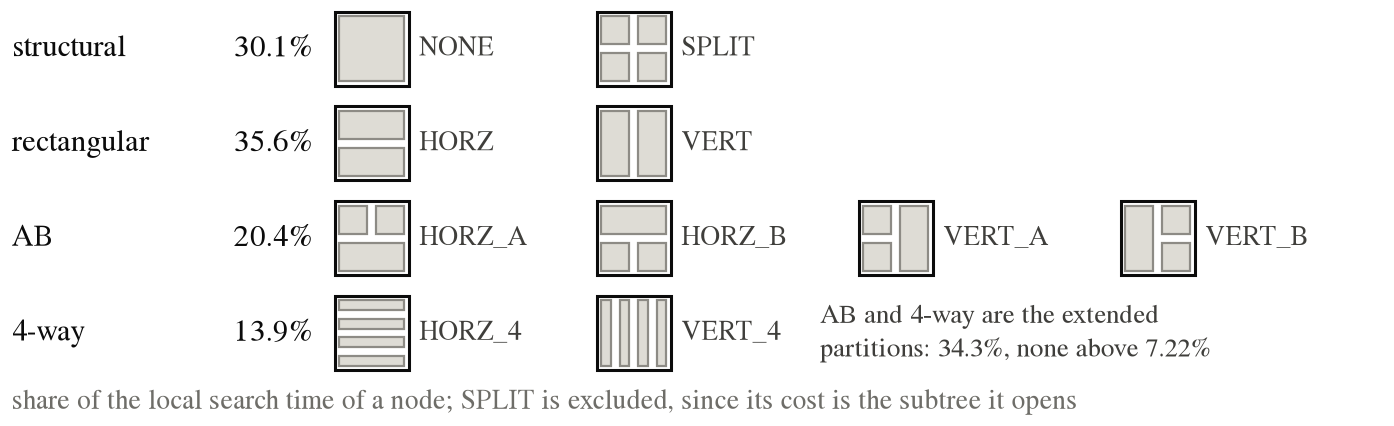
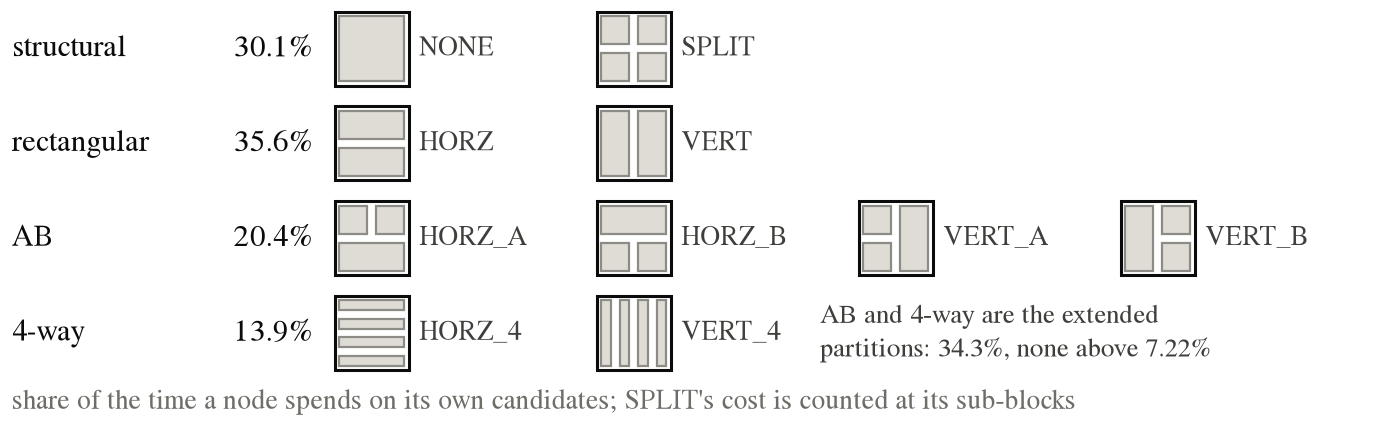
Reescreve a nota de rodape da Figura 1, que virara enigma
Dizia "SPLIT is excluded, since its cost is the subtree it opens". Anunciar a
exclusao sem dizer onde a conta foi parar leva o leitor a concluir que dividir e
de graca, que e o contrario do que os dados mostram. E "excluded" nao dizia
excluido de que.

Passa a "share of the time a node spends on its own candidates; SPLIT's cost is
counted at its sub-blocks". A primeira metade define o denominador em palavras,
sem depender do termo "local"; a segunda diz que o custo do split existe e
aparece nos filhos, como tempo local deles.

Changed region(s): [[0.0925, 0.9155, 0.7712, 0.9765]]

diff --git a/src/scripts/benchmark/plot_partition_shapes_fig1.py b/src/scripts/benchmark/plot_partition_shapes_fig1.py
@@ -16,9 +16,13 @@ aborta em vez de gerar uma figura que contradiz o texto.
 CUIDADO METODOLOGICO, herdado do agregador: PARTITION_SPLIT fica FORA do
 denominador, porque o seu cronometro engloba a recursao e contabilizaria o
 trabalho dos nos descendentes varias vezes. O denominador sao os NOVE candidatos
-nao recursivos. A figura declara isso na nota de rodape: sem ela, o leitor
-concluiria do desenho que o split e barato, quando na verdade o custo dele e a
-subarvore inteira que ele abre.
+nao recursivos.
+
+A nota de rodape precisa dizer isso sem virar enigma. Nao basta anunciar que o
+SPLIT foi excluido: o leitor conclui que dividir e de graca. O custo dele
+EXISTE, so que aparece nos filhos, contabilizado como o tempo local DELES. Dai a
+redacao "SPLIT's cost is counted at its sub-blocks", que diz onde a conta foi
+parar, e nao apenas que ela saiu daqui.
 
 Paleta monocromatica, e nao por sobriedade apenas: um diagrama de formas nao
 carrega variavel categorica alguma, entao o matiz nao codificaria nada. As
@@ -207,8 +211,8 @@ def draw(out_path, agregado, maior):
         y_topo = y0 - GAP_LINHA
 
     ax.text(nx(X_ROTULO), ny(PAD_BOT + H_NOTA / 2),
-            "share of the local search time of a node; SPLIT is excluded,"
-            " since its cost is the subtree it opens", ha="left", va="center",
+            "share of the time a node spends on its own candidates;"
+            " SPLIT's cost is counted at its sub-blocks", ha="left", va="center",
             fontsize=4.9, color=MUTED, zorder=4)
 
     fig.savefig(out_path, facecolor=SURFACE)
